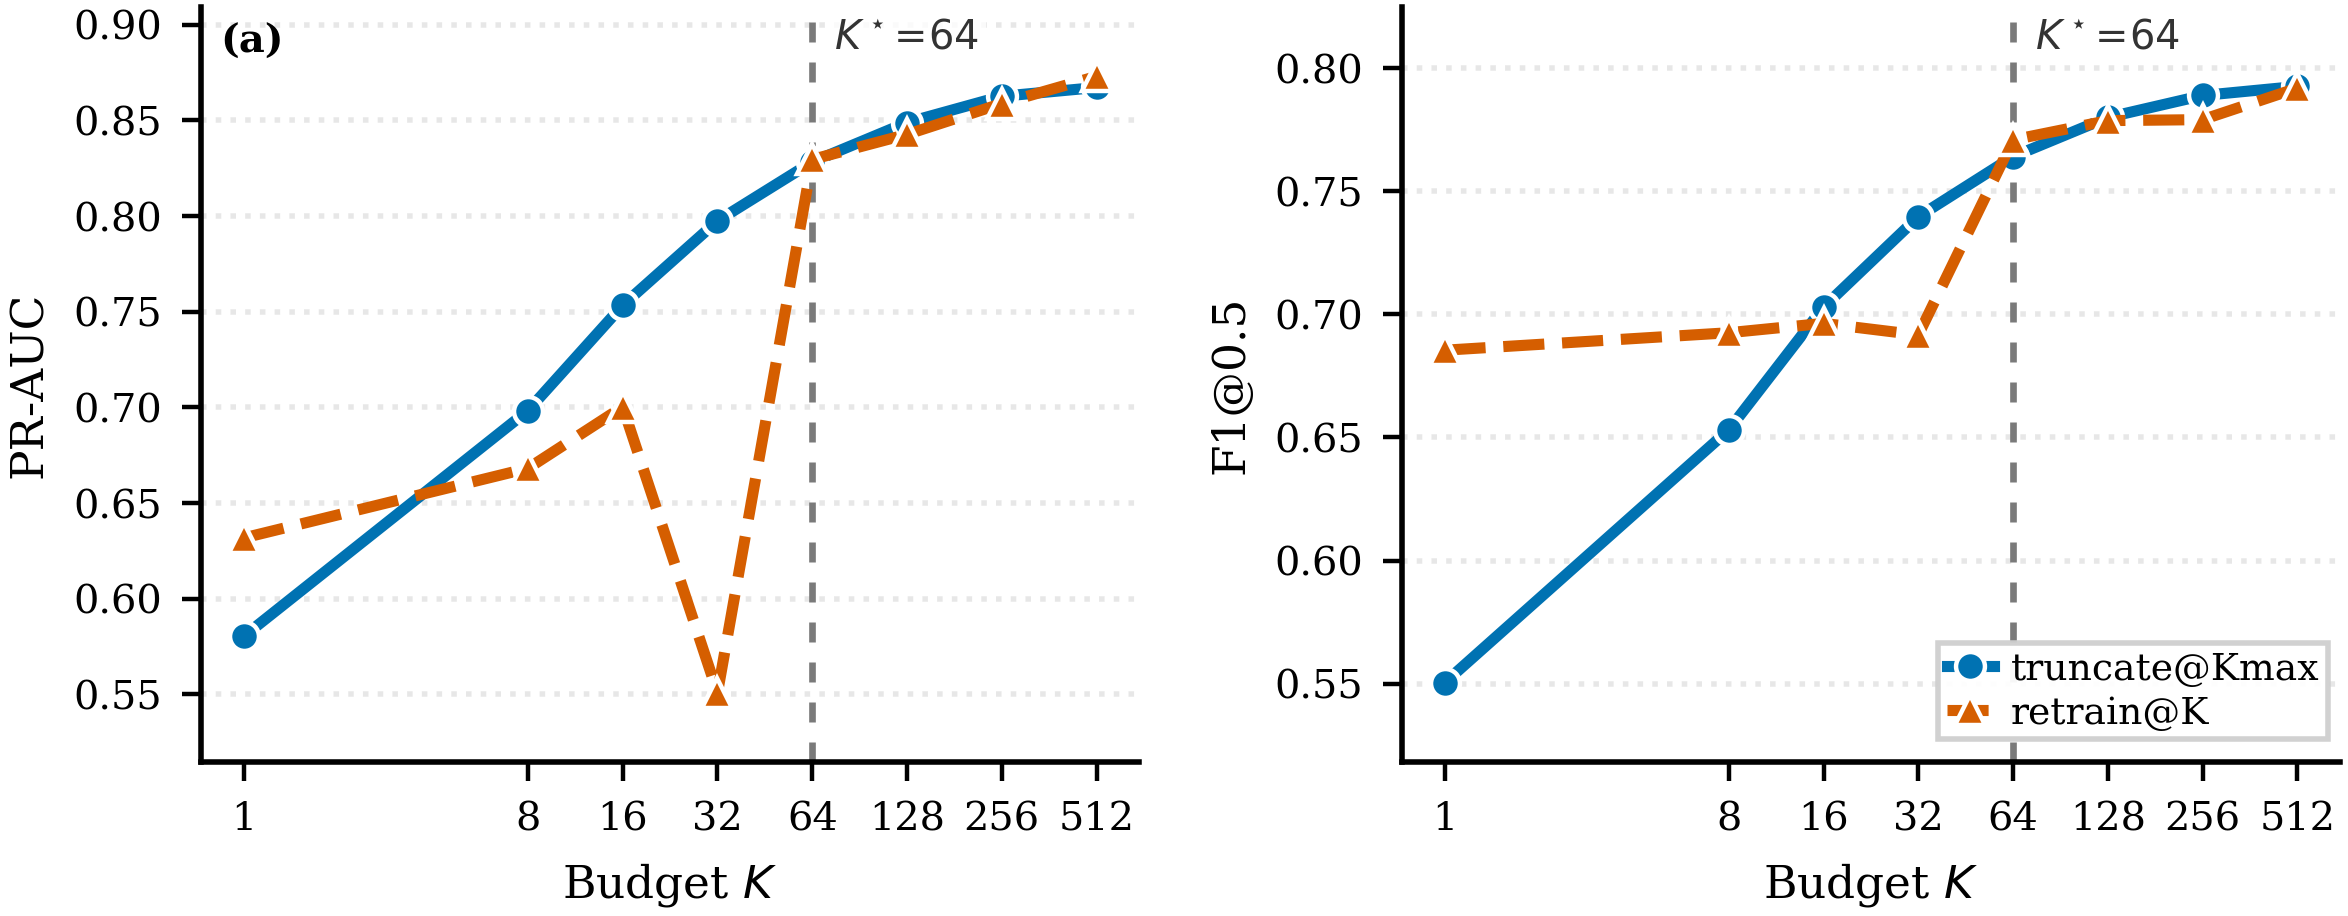
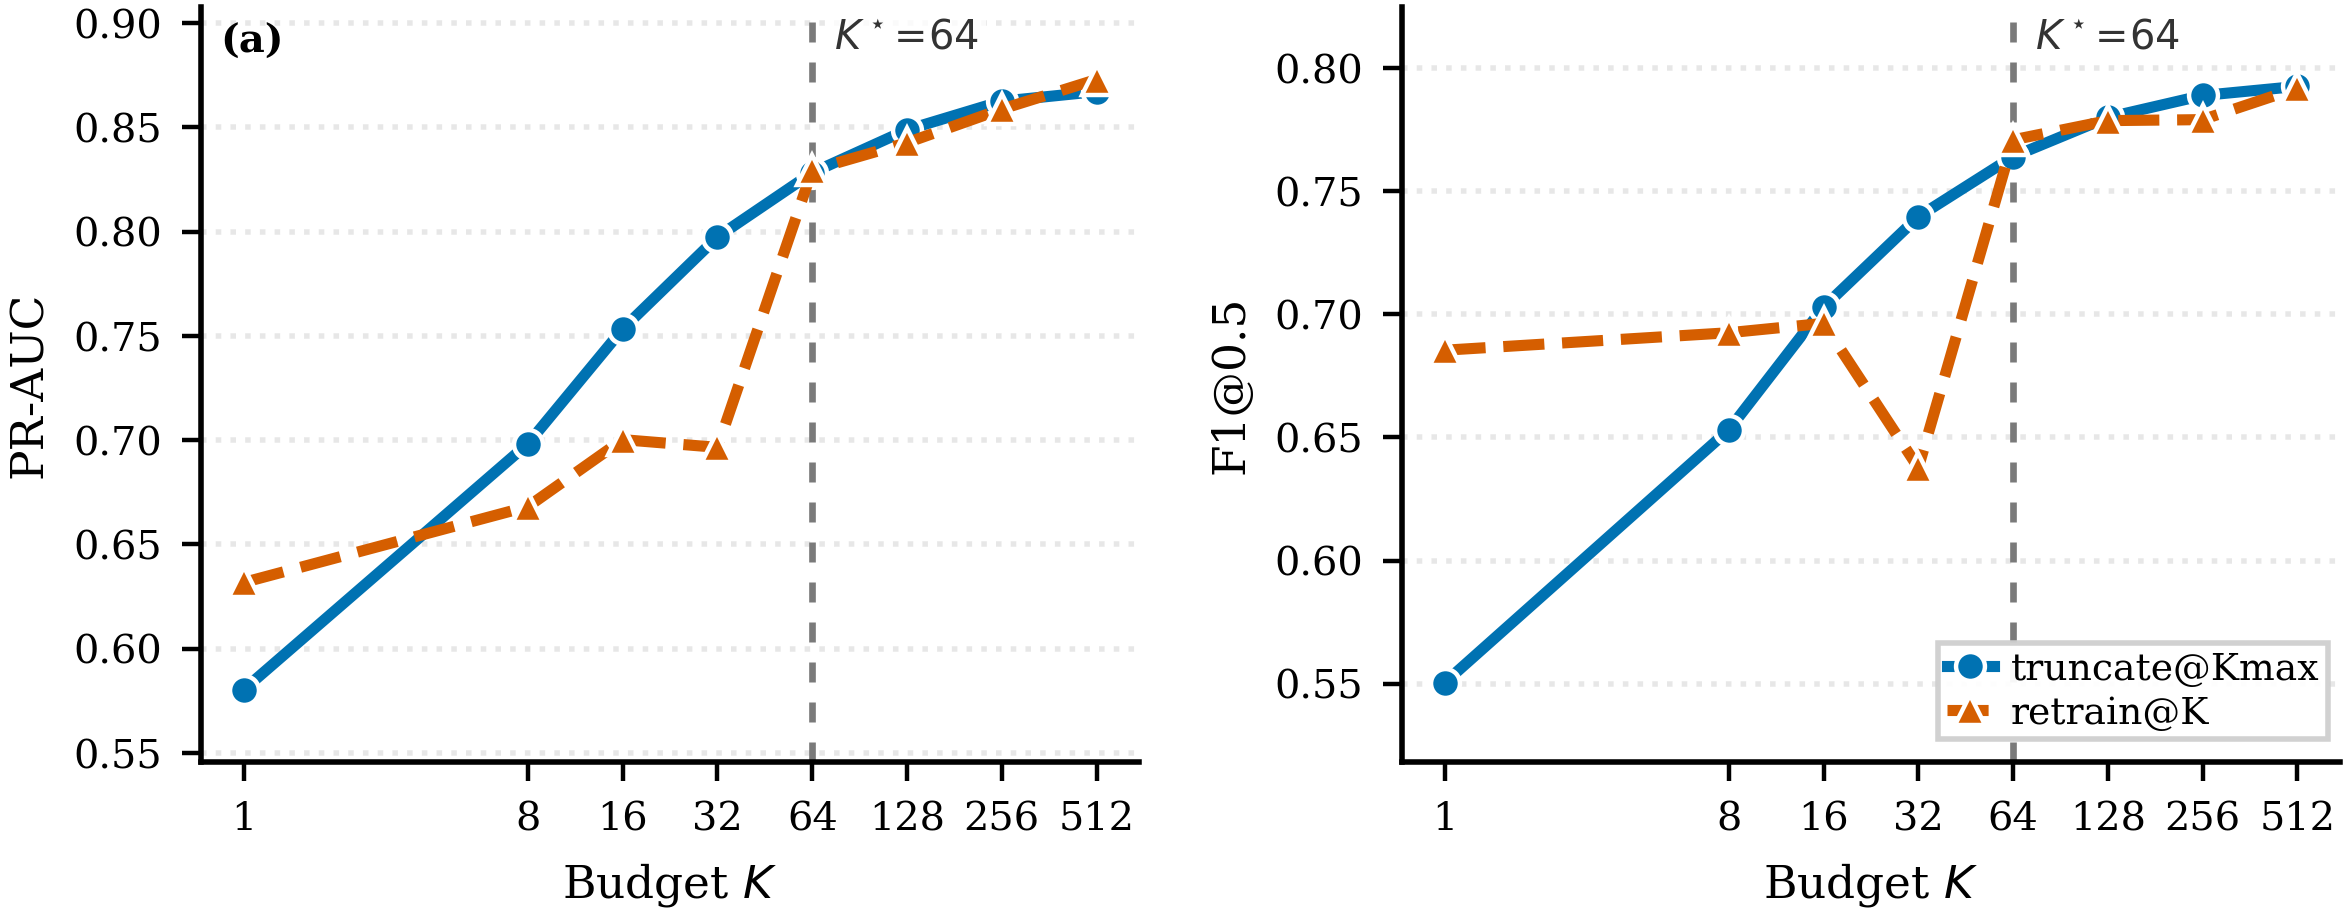
Update K=32 retrain data (SWA): F1=0.6377, PR-AUC=0.6965

diff --git a/paper/scripts/make_fig3_mti.py b/paper/scripts/make_fig3_mti.py
@@ -31,8 +31,8 @@ TRUNC = {
 
 # retrain@K (separately trained models for each K)
 RETRAIN = {
-    "f1":    [0.6854, 0.6925, 0.6963, 0.6916, 0.7708, 0.7786, 0.7790, 0.7918],
-    "prauc": [0.6317, 0.6681, 0.7002, 0.5508, 0.8295, 0.8426, 0.8587, 0.8729],
+    "f1":    [0.6854, 0.6925, 0.6963, 0.6377, 0.7708, 0.7786, 0.7790, 0.7918],
+    "prauc": [0.6317, 0.6681, 0.7002, 0.6965, 0.8295, 0.8426, 0.8587, 0.8729],
 }
 
 # robustness vs n (K*=64, seed=2020, MTI test split)
